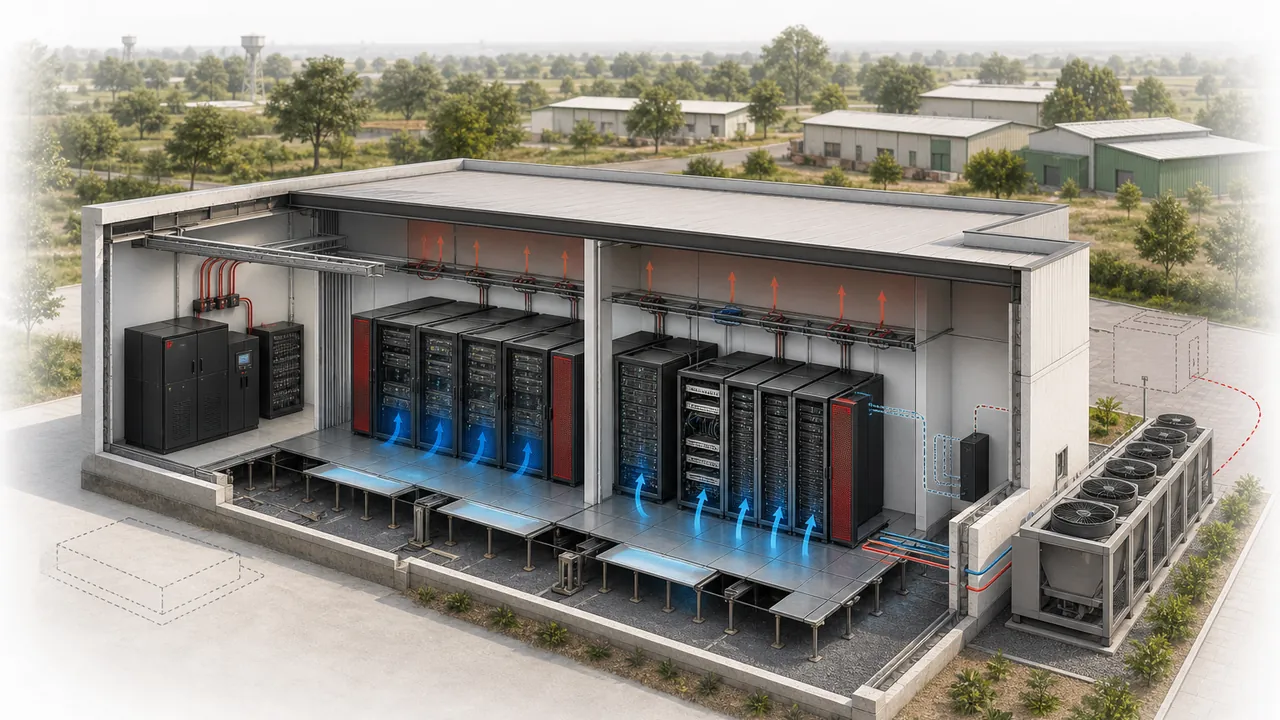
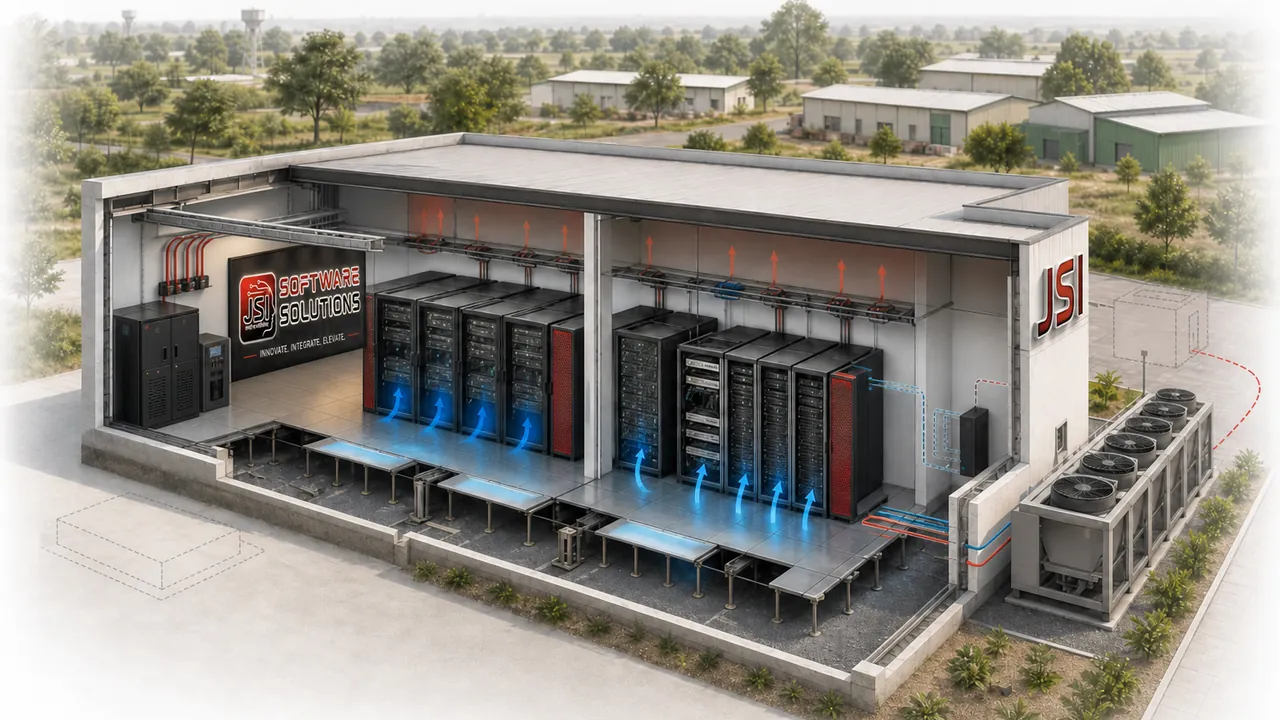
feat(jsi): put JSI on the Rampur hall and the lobby board at the door
Keep the cutaway, add facade letters and the Software Solutions entrance display so the building reads as JSI when you walk in.

diff --git a/jsi/index.html b/jsi/index.html
@@ -66,8 +66,8 @@
         <figure class="ym-infra-figure">
           <div class="ym-infra-plate">
           <picture>
-            <source media="(max-width: 720px)" type="image/webp" srcset="/jsi/assets/rampur-cutaway-mobile-720.webp 720w, /jsi/assets/rampur-cutaway-mobile.webp 1200w" sizes="100vw" />
-            <img src="/jsi/assets/rampur-cutaway.webp" srcset="/jsi/assets/rampur-cutaway-800.webp 800w, /jsi/assets/rampur-cutaway-1280.webp 1280w, /jsi/assets/rampur-cutaway.webp 1536w" sizes="(max-width: 720px) 100vw, min(1200px, 92vw)" width="1536" height="864" alt="Conceptual cutaway of a modest, expandable data-centre hall in Rampur, with compute racks, networking, storage, power cabinets, and engineered cooling. Not a verified drawing of the actual facility." decoding="async" fetchpriority="high" />
+            <source media="(max-width: 720px)" type="image/webp" srcset="/jsi/assets/rampur-cutaway-mobile-720.webp?v=2 720w, /jsi/assets/rampur-cutaway-mobile.webp?v=2 1200w" sizes="100vw" />
+            <img src="/jsi/assets/rampur-cutaway.webp?v=2" srcset="/jsi/assets/rampur-cutaway-800.webp?v=2 800w, /jsi/assets/rampur-cutaway-1280.webp?v=2 1280w, /jsi/assets/rampur-cutaway.webp?v=2 1536w" sizes="(max-width: 720px) 100vw, min(1200px, 92vw)" width="1536" height="864" alt="Conceptual cutaway of JSI’s data-centre hall in Rampur, with JSI on the building, a Software Solutions entrance board, compute racks, and engineered cooling." decoding="async" fetchpriority="high" />
           </picture>
           <svg class="ym-infra-svg" viewBox="0 0 1000 563" preserveAspectRatio="none" aria-hidden="true" focusable="false">
             <path class="ym-lead ym-lead-power" d="M175 300 L175 255" />

diff --git a/jsi/scripts/emit_pages.py b/jsi/scripts/emit_pages.py
@@ -209,8 +209,8 @@ def ym_home_body() -> str:
         <figure class="ym-infra-figure">
           <div class="ym-infra-plate">
           <picture>
-            <source media="(max-width: 720px)" type="image/webp" srcset="/jsi/assets/rampur-cutaway-mobile-720.webp 720w, /jsi/assets/rampur-cutaway-mobile.webp 1200w" sizes="100vw" />
-            <img src="/jsi/assets/rampur-cutaway.webp" srcset="/jsi/assets/rampur-cutaway-800.webp 800w, /jsi/assets/rampur-cutaway-1280.webp 1280w, /jsi/assets/rampur-cutaway.webp 1536w" sizes="(max-width: 720px) 100vw, min(1200px, 92vw)" width="1536" height="864" alt="Conceptual cutaway of a modest, expandable data-centre hall in Rampur, with compute racks, networking, storage, power cabinets, and engineered cooling. Not a verified drawing of the actual facility." decoding="async" fetchpriority="high" />
+            <source media="(max-width: 720px)" type="image/webp" srcset="/jsi/assets/rampur-cutaway-mobile-720.webp?v=2 720w, /jsi/assets/rampur-cutaway-mobile.webp?v=2 1200w" sizes="100vw" />
+            <img src="/jsi/assets/rampur-cutaway.webp?v=2" srcset="/jsi/assets/rampur-cutaway-800.webp?v=2 800w, /jsi/assets/rampur-cutaway-1280.webp?v=2 1280w, /jsi/assets/rampur-cutaway.webp?v=2 1536w" sizes="(max-width: 720px) 100vw, min(1200px, 92vw)" width="1536" height="864" alt="Conceptual cutaway of JSI’s data-centre hall in Rampur, with JSI on the building, a Software Solutions entrance board, compute racks, and engineered cooling." decoding="async" fetchpriority="high" />
           </picture>
           <svg class="ym-infra-svg" viewBox="0 0 1000 563" preserveAspectRatio="none" aria-hidden="true" focusable="false">
             <path class="ym-lead ym-lead-power" d="M175 300 L175 255" />

diff --git a/jsi/scripts/validate.py b/jsi/scripts/validate.py
@@ -86,6 +86,7 @@ def main() -> int:
         "Five connected systems",
         "Conceptual infrastructure illustration",
         "Mentha cooling",
+        "Software Solutions entrance board",
         "Vector databases as software",
         "AI Compute",
         "Connected &amp; Secure",
